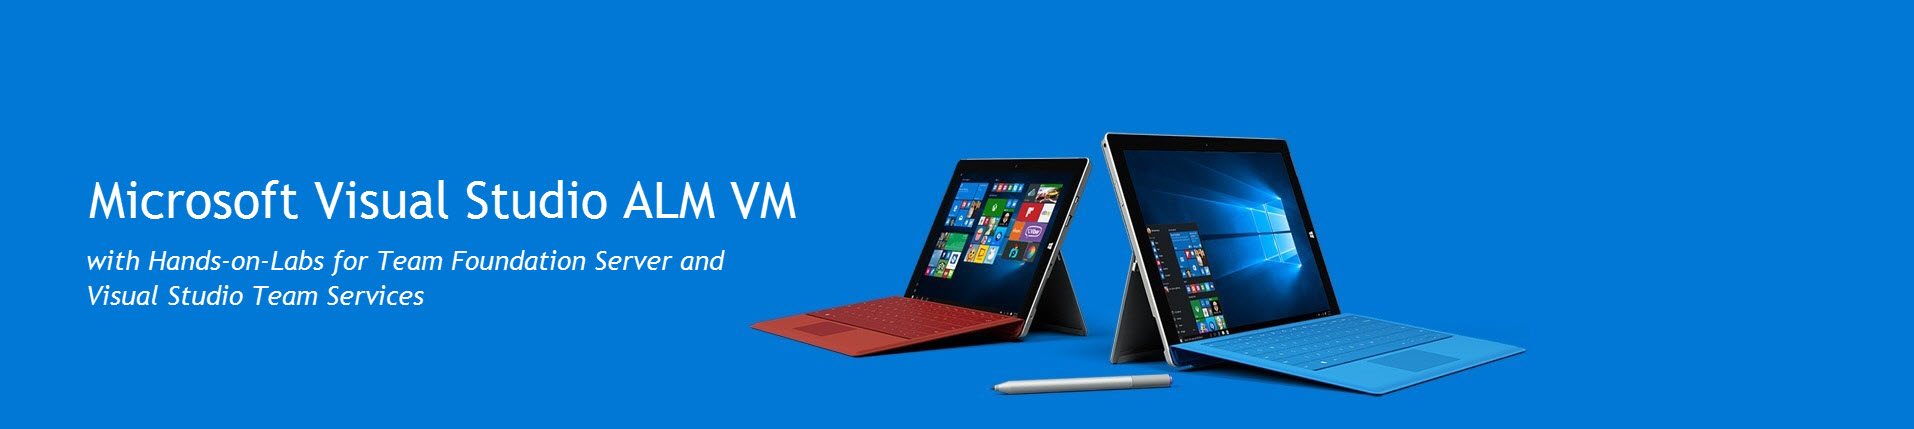
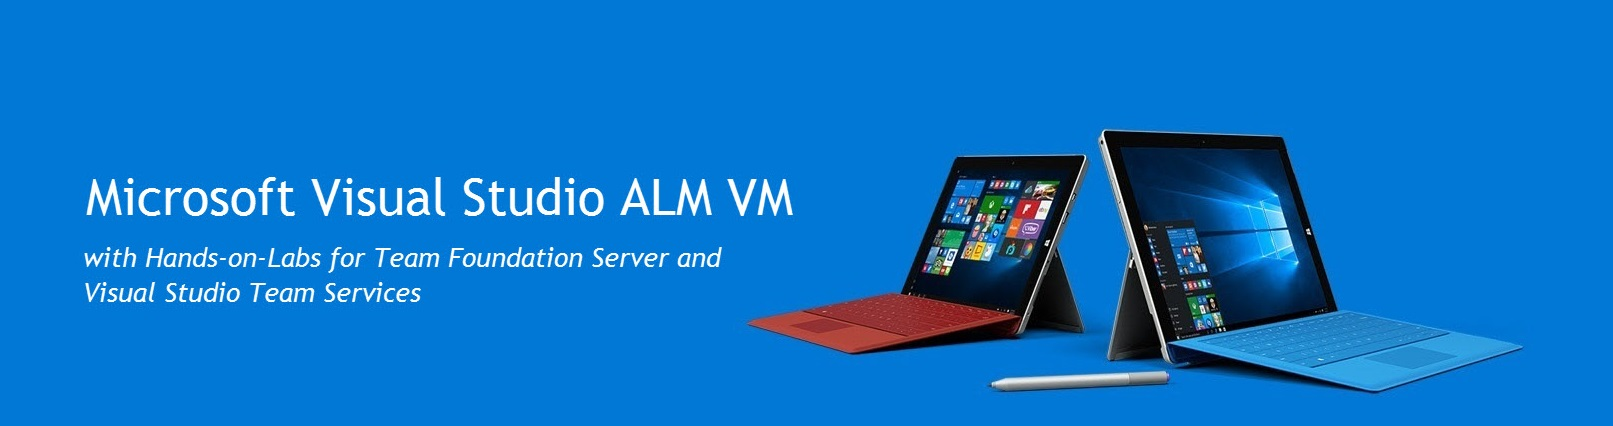
Updates content

Changed region(s): [[0.031, 0.3052, 0.9609, 0.946]]

diff --git a/_layouts/homepage.html b/_layouts/homepage.html
@@ -12,7 +12,7 @@
 <body>
 {% include topnav.html %}
 <!-- Page Content -->
-<img src="images/banner31.jpg" />
+<img src="images/banner31.jpg" width="100%" />
 <div class="container">
             {{content}}
       <div class="column">  

diff --git a/css/customstyles.css b/css/customstyles.css
@@ -1217,7 +1217,7 @@ h4.panel-title {
 }
 
 i.glyphicon.glyphicon-search {
-    margin-top: 30px;
+    margin-top: 25px;
     left: 25px;
     /* max-width: 2px; */
 }
